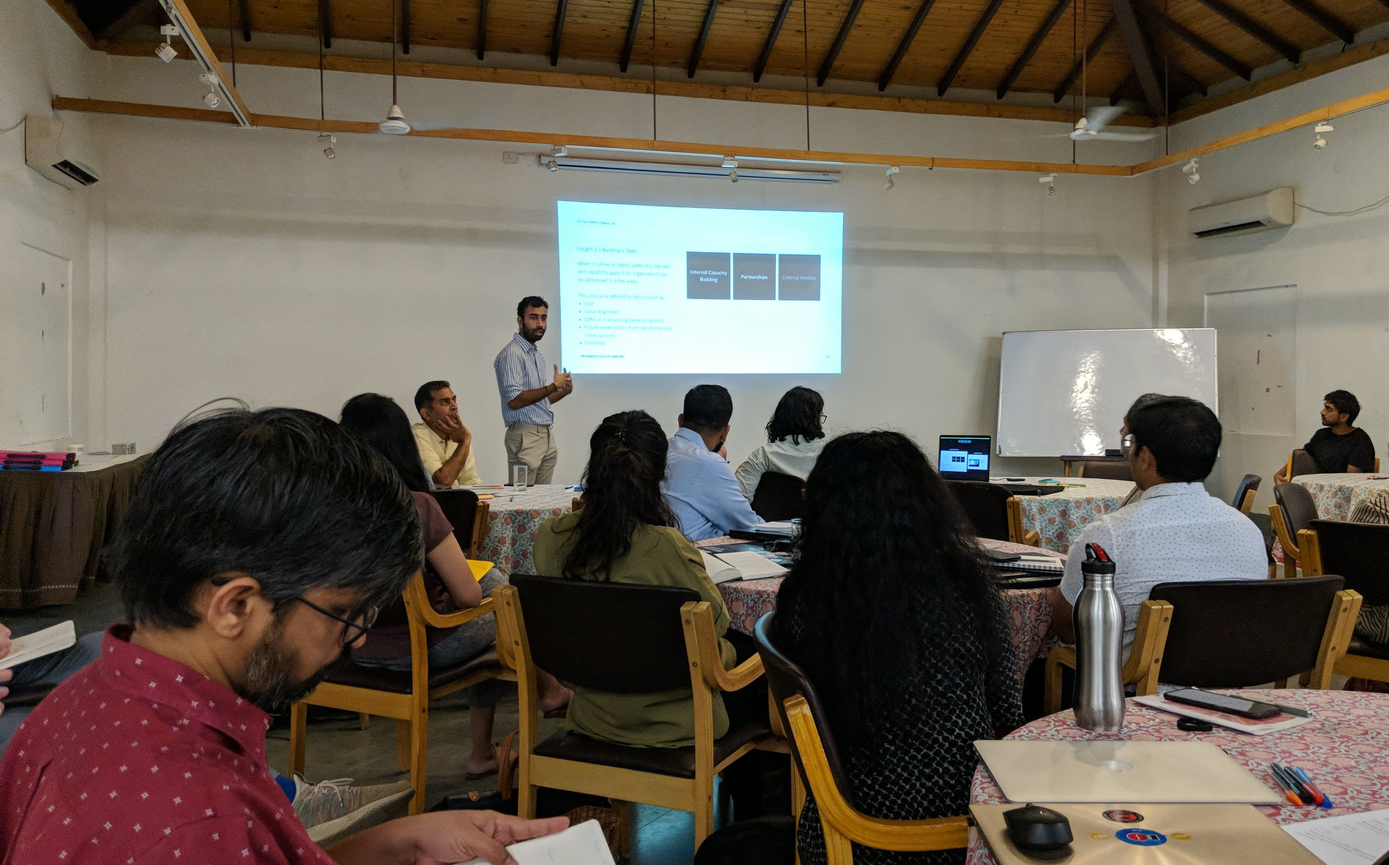
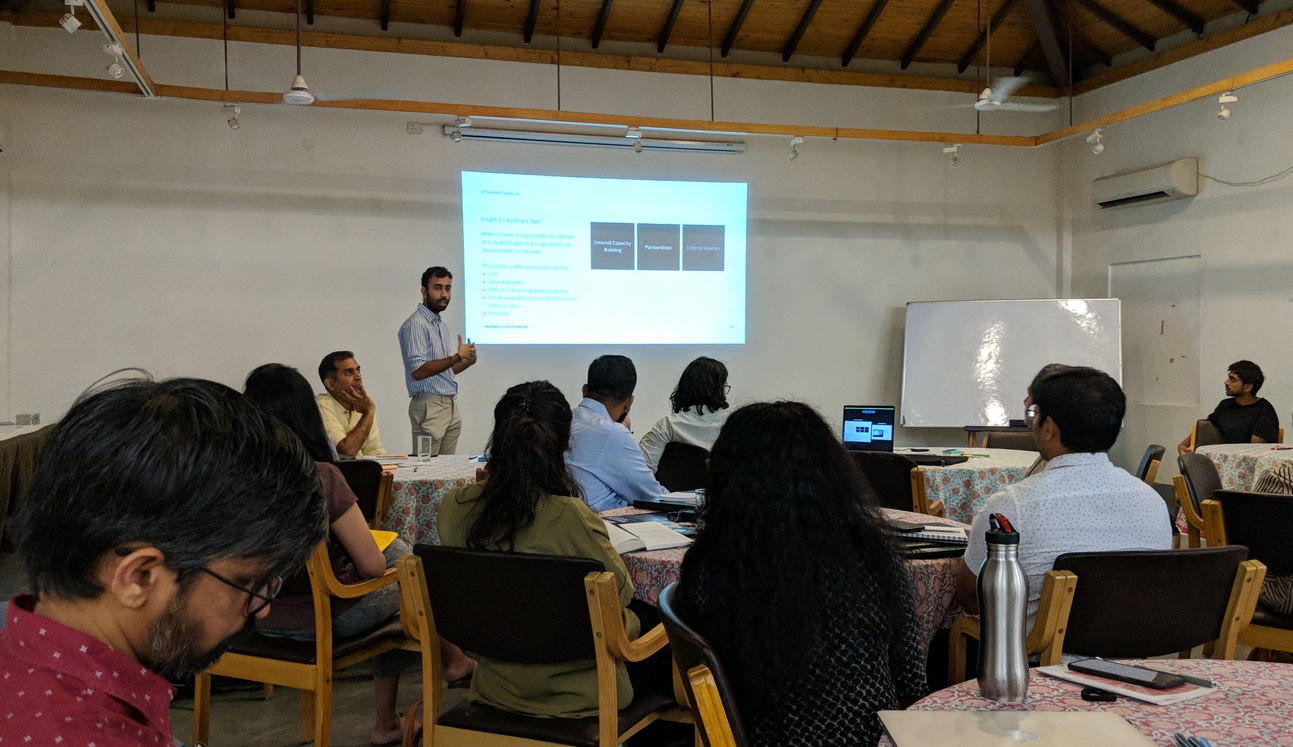
post change

diff --git a/posts/uncdf-finlab-toolkit/index.html b/posts/uncdf-finlab-toolkit/index.html
@@ -45,13 +45,13 @@
     
       <div class="post-desc">
         <h4>Overview</h4>
-        <p>UNCDF Malaysia ran 3 bootcamps to help 18 startups tailor their products to the B40 (Bottom 40% tax bracket in Malaysia) segment of the market. The bootcamps was designed and facilitated by Quicksand, with the intention of creating a repeatable version of the bootcamp to be subsequently run by the UNCDF team. The toolkit for the bootcamp was designed and developed in the form of an easily update-able Google Sheet powered website.</p>
+        <p>UNCDF Malaysia ran 3 bootcamps to help 18 startups tailor their products to the B40 (Bottom 40% tax bracket in Malaysia) segment of the market. The bootcamps was designed and facilitated by Quicksand, with the intention of creating a repeatable version of the bootcamp to be subsequently run by the UNCDF team.</p>
       </div>
     
     
       <div class="post-desc">
         <h4>Role</h4>
-        <p>Facilitator and Web Developer</p>
+        <p>Facilitator and Developer</p>
       </div>
     
     
@@ -73,21 +73,28 @@
     </div>
 </div>
 <div class="post-main">
-  <p><img src="../../img/uncdf-finlab-toolkit-2.jpg" alt=""></p>
-<p><img src="../../img/uncdf-finlab-toolkit-3.jpg" alt=""></p>
+  <p><img src="../../img/uncdf-finlab-toolkit-13.jpg" alt=""></p>
+<h3 id="challenge" tabindex="-1">Challenge <a class="direct-link" href="#challenge" aria-hidden="true"></a></h3>
 <p>The UNCDF Financial Innovation Lab runs challenges to find and support solutions that help to promote inclusive and connected digital economies. As part of the Financial Innovation Lab, the United Nations Capital Development Fund (UNCDF) issues challenges to innovators in global markets across Asia, Africa, and the Pacific. The challenges reflect obstacles to inclusion in each market, that digital technologies present an opportunity to address. The challenges aim to stimulate the growth of new businesses and ideas to drive the development of inclusive digital economies.</p>
 <p>The Financial Innovation Lab is a community of practice energised by its mission to achieve digital financial inclusion for the elimination of poverty worldwide. An initiative of the UN Capital Development Fund (UNCDF), the Lab aims to increase the accessibility of digital financial services and products for low- and middle-income people in Africa, Asia, and the Pacific by sharing knowledge and providing resources to develop impactful solutions.</p>
+<h3 id="bootcamp" tabindex="-1">Bootcamp <a class="direct-link" href="#bootcamp" aria-hidden="true"></a></h3>
+<p>18 fintech start-ups were selected to work with UNCDF to develop and refine innovative new solutions. They attended the UNCDF led Bootcamps to learn and apply the design thinking process, working with mentors and partners from Bank Negara and MDEC amongst other companies. Quicksand was brought in as facilitators for the first cohort, to conduct the bootcamp, and help the startups refine their offering to help serve the B40 population better. Read more about the bootcamp on <a href="https://www.uncdf.org/article/4472/making-malaysian-fintech-fairer">UNCDF's website</a> ↗.</p>
+<p>Across five days participating teams learnt about human centred design; a design methodology that aims to make systems usable and useful by focusing on the users, their needs and requirements, and by applying human factors, usability knowledge, and techniques1. For many of the start-ups this was their first experience of human centred design, and they expressed surprise at how quickly their assumptions were overturned. An initial exercise asked the teams to arrange themselves by how much they were already engaging with the B40 population.</p>
+<p><img src="../../img/uncdf-finlab-toolkit-14.jpg" alt=""></p>
+<p>The start-ups then learnt and applied a series of tools which helped them to define the problem or opportunity they were addressing. These included the problem tree and 5 whys, which are designed to help define the causes and effects of different problems.</p>
+<iframe width="100%" height="450" src="https://www.youtube-nocookie.com/embed/kHeMdB15M2w" title="YouTube video player" frameborder="0" allow="accelerometer; autoplay; clipboard-write; encrypted-media; gyroscope; picture-in-picture" allowfullscreen></iframe>
+<p>One participant has worked in insurance for low-to-middle income people for decades but says that this exercise challenged his assumptions about their financial needs and wants. He spoke to the owner of a shop he has been visiting for decades; “Despite the fact I’ve known Mr. Yong for 20 years I never had the opportunity to understand his business, problems, dreams and aspirations. Talking to Mr. Yong gave me a new level of respect for small business owners.”</p>
 <p><img src="../../img/uncdf-finlab-toolkit-4.jpg" alt=""><br>
 <em>Practice pitching</em></p>
-<p><img src="../../img/uncdf-finlab-toolkit-8.jpg" alt=""><br>
-<em>Synthesising primary research conducted during the bootcamp</em></p>
-<p>18 fintech start-ups were selected to work with UNCDF to develop and refine innovative new solutions. They attended the UNCDF led Bootcamps to learn and apply the design thinking process, working with mentors and partners from Bank Negara and MDEC amongst other companies. Quicksand was brought in as facilitators for the first cohort, to conduct the bootcamp, and help the startups refine their offering to help serve the B40 population better. Documentation of the workshop can be found on <a href="https://www.uncdf.org/article/4472/making-malaysian-fintech-fairer">UNCDF's website</a> ↗.</p>
-<p>Over the 3 bootcamps, the participants were introduced to the process of Human Centered Design, and used various tools to use design thinking to refine their offering. After the conclusion of the bootcamp, Quicksand was tasked to put together all the tools and exercises from the bootcamp into an easy to use resource. After initially putting together a toolkit using openly available and easily collaborative technologies, we explored other formats of delivering the same information. After a few small prototypes, we eventually settled on the idea of creating a micro-site.</p>
-<p><img src="../../img/uncdf-finlab-toolkit-9.png#imageborder" alt=""><br>
+<p><img src="../../img/uncdf-finlab-toolkit-3.jpg" alt=""><br>
+<em>Prepping finalists for pitch day</em></p>
+<h3 id="toolkit" tabindex="-1">Toolkit <a class="direct-link" href="#toolkit" aria-hidden="true"></a></h3>
+<p>Over the 3 bootcamps, the participants were introduced to the process of Human Centred Design, and used various tools to use design thinking to refine their offering. After the conclusion of the bootcamp, Quicksand was tasked to put together all the tools and exercises from the bootcamp into an easy to use resource. After initially putting together a toolkit using openly available and easily collaborative technologies, we explored other formats of delivering the same information. After a few small prototypes, we eventually settled on the idea of creating a micro-site.</p>
+<p><img src="../../img/uncdf-finlab-toolkit-9.png" alt=""><br>
 <em>Home page of toolkit website</em></p>
-<p><img src="../../img/uncdf-finlab-toolkit-11.png#imageborder" alt=""><br>
+<p><img src="../../img/uncdf-finlab-toolkit-11.png" alt=""><br>
 <em>Breaking down each section of the bootcamp into easy to follow tools and templates</em></p>
-<p><img src="../../img/uncdf-finlab-toolkit-10.png#imageborder" alt=""><br>
+<p><img src="../../img/uncdf-finlab-toolkit-10.png" alt=""><br>
 <em>Tools are designed to be easy to understand and used without facilitation</em></p>
 <p>This micro-site was powered by a spreadsheet on Google Sheets, and was hence still collaborative and easy to update. The website created is easy to use and presents information in various blocks, as would be required by the bootcamp participants and workshop facilitators. The tools and facilitation slides can be downloaded as required, with additional reference links provided where needed.</p>
 <p><img src="../../img/uncdf-finlab-toolkit-12.png" alt=""><br>

diff --git a/posts/upshift-social-innovation-curriculum/index.html b/posts/upshift-social-innovation-curriculum/index.html
@@ -73,27 +73,27 @@
     </div>
 </div>
 <div class="post-main">
-  <p><img src="../../img/unicef-upshift-16.jpg" alt=""><br>
-<img src="../../img/unicef-upshift-17.jpg" alt=""><br>
-<em>Workshop to train mentors and trainers</em></p>
+  <p><img src="../../img/unicef-upshift-16.jpg" alt=""></p>
+<h3 id="background" tabindex="-1">Background <a class="direct-link" href="#background" aria-hidden="true"></a></h3>
 <p>UPSHIFT is a youth social innovation and social entrepreneurship programme, designed to build skills and opportunities for young people who are disadvantaged, due to (for example) poverty, gender, disability or ethnicity. The programme empowers young people with the skills and resources they need to identify problems in their own communities and design solutions for them.</p>
-<p><img src="../../img/unicef-upshift-3.jpg" alt=""><br>
-<em>Refining the curriculum with the UNICEF Tajikistan</em></p>
+<h3 id="upshift-workshop" tabindex="-1">UPSHIFT Workshop <a class="direct-link" href="#upshift-workshop" aria-hidden="true"></a></h3>
 <p>The UPSHIFT programme was started by UNICEF Kosovo, and it was very successful. UNICEF in Tajikistan too wanted to start their own UPSHIFT programme, and Quicksand was called in to help design the programme and facilitate the bootcamps. In the two weeks that the Quicksand team was in Dushanbe, we helped refine the human centered design methodology and design a bootcamp agenda which could subsequently be used by the UNICEF team to conduct further workshops.</p>
+<p><img src="../../img/unicef-upshift-17.jpg" alt=""><br>
+<em>Workshop to train mentors and trainers</em></p>
 <p>Quicksand conducted a week-long Training of Trainers bootcamp with selected mentors from around Tajikistan. These mentors would then go on to facilitate UPSHIFT programmes in their communities.</p>
 <p><img src="../../img/unicef-upshift-6.jpg" alt=""><br>
 <em>Mentors prototyping new facilitation strategies</em></p>
-<div class="two-grid">
+<h3 id="toolkit" tabindex="-1">Toolkit <a class="direct-link" href="#toolkit" aria-hidden="true"></a></h3>
+<p>A comprehensive toolkit was created, which was used by the UNICEF team and the mentors to train more mentors and use the HCD (Human Centered Design) process to help guide the adolescents on their social entrepreneurship journey. The freshly minted UPSHIFT trainers then put the toolkit and their facilitation skills to the test with an UPSHIFT cohort in Dushanbe. Feedback from the trainers was then used to optimise the toolkit material.</p>
+<p>The facilitation guide and materials for the UPSHIFT Bootcamp are now available for download from <a href="https://www.unicef.org/innovation/UPSHIFTcurriculum">UNICEF's website</a> ↗.</p>
+<p><img src="../../img/unicef-upshift-3.jpg" alt=""><br>
+<em>Refining the curriculum with the UNICEF Tajikistan</em></p>
 <p><img src="../../img/unicef-upshift-1.jpg" alt=""><br>
+<img src="../../img/unicef-upshift-13.jpg" alt=""><br>
 <em>Getting comfortable with prototyping tools</em></p>
-<p><img src="../../img/unicef-upshift-13.jpg" alt=""></p>
-</div>
-<p>The freshly minted UPSHIFT trainers then put the toolkit and their facilitation skills to the test with an UPSHIFT cohort in Dushanbe. Feedback from the trainers was then used to optimise the toolkit material.</p>
 <p><img src="../../img/unicef-upshift-9.jpg" alt=""><br>
 <img src="../../img/unicef-upshift-8.jpg" alt=""><br>
 <em>Mentors putting their skills to the test with the initial UPSHIFT cohort</em></p>
-<p>A comprehensive toolkit was created, which was used by the UNICEF team and the mentors to train more mentors and use the HCD (Human Centered Design) process to help guide the adolescents on their social entrepreneurship journey.</p>
-<p>The facilitation guide and materials for the UPSHIFT Bootcamp are now available for download from <a href="https://www.unicef.org/innovation/UPSHIFTcurriculum">UNICEF's website</a> ↗.</p>
 <p><img src="../../img/unicef-upshift-4.jpg" alt=""><br>
 <em>Hello from Dushanbe!</em></p>
 

diff --git a/page-list/2/index.html b/page-list/2/index.html
@@ -61,16 +61,16 @@
     <td>Tagged “2022”</td>
   </tr>
   <tr>
-    <td><a href="/tags/writing/"><code>/tags/writing/</code></a></td>
-    <td>Tagged “writing”</td>
-  </tr>
-  <tr>
     <td><a href="/tags/work/"><code>/tags/work/</code></a></td>
     <td>Tagged “work”</td>
   </tr>
   <tr>
     <td><a href="/tags/design-thinking/"><code>/tags/design-thinking/</code></a></td>
     <td>Tagged “design thinking”</td>
+  </tr>
+  <tr>
+    <td><a href="/tags/writing/"><code>/tags/writing/</code></a></td>
+    <td>Tagged “writing”</td>
   </tr>
   <tr>
     <td><a href="/tags/experiential-design/"><code>/tags/experiential-design/</code></a></td>
@@ -85,16 +85,16 @@
     <td>Tagged “selected”</td>
   </tr>
   <tr>
-    <td><a href="/tags/recent/"><code>/tags/recent/</code></a></td>
-    <td>Tagged “recent”</td>
+    <td><a href="/tags/experiential/"><code>/tags/experiential/</code></a></td>
+    <td>Tagged “experiential”</td>
   </tr>
   <tr>
     <td><a href="/tags/physical-computing/"><code>/tags/physical-computing/</code></a></td>
     <td>Tagged “physical computing”</td>
   </tr>
   <tr>
-    <td><a href="/tags/experiential/"><code>/tags/experiential/</code></a></td>
-    <td>Tagged “experiential”</td>
+    <td><a href="/tags/recent/"><code>/tags/recent/</code></a></td>
+    <td>Tagged “recent”</td>
   </tr>
   <tr>
     <td><a href="/tags/generative-art/"><code>/tags/generative-art/</code></a></td>
@@ -105,24 +105,24 @@
     <td>Tagged “speculative design”</td>
   </tr>
   <tr>
-    <td><a href="/tags/machine-learning/"><code>/tags/machine-learning/</code></a></td>
-    <td>Tagged “machine learning”</td>
-  </tr>
-  <tr>
     <td><a href="/tags/data/"><code>/tags/data/</code></a></td>
     <td>Tagged “data”</td>
   </tr>
   <tr>
-    <td><a href="/tags/play/"><code>/tags/play/</code></a></td>
-    <td>Tagged “play”</td>
+    <td><a href="/tags/machine-learning/"><code>/tags/machine-learning/</code></a></td>
+    <td>Tagged “machine learning”</td>
   </tr>
   <tr>
     <td><a href="/tags/mfadt/"><code>/tags/mfadt/</code></a></td>
     <td>Tagged “mfadt”</td>
   </tr>
   <tr>
-    <td><a href="/tags/digital-heritage/"><code>/tags/digital-heritage/</code></a></td>
-    <td>Tagged “digital heritage”</td>
+    <td><a href="/tags/play/"><code>/tags/play/</code></a></td>
+    <td>Tagged “play”</td>
+  </tr>
+  <tr>
+    <td><a href="/tags/games/"><code>/tags/games/</code></a></td>
+    <td>Tagged “games”</td>
   </tr>
   </tbody>
 </table>

diff --git a/tags/index.html b/tags/index.html
@@ -46,16 +46,16 @@
   <div>
   
     
-    <a href="/tags/writing/" class="tags">writing</a>
+    <a href="/tags/work/" class="tags">work</a>
+  
+    
+    <a href="/tags/design-thinking/" class="tags">design thinking</a>
   
     
     <a href="/tags/2020/" class="tags">2020</a>
   
     
-    <a href="/tags/work/" class="tags">work</a>
-  
-    
-    <a href="/tags/design-thinking/" class="tags">design thinking</a>
+    <a href="/tags/writing/" class="tags">writing</a>
   
     
     <a href="/tags/experiential-design/" class="tags">experiential design</a>
@@ -70,52 +70,52 @@
     <a href="/tags/2018/" class="tags">2018</a>
   
     
-    <a href="/tags/recent/" class="tags">recent</a>
+    <a href="/tags/experiential/" class="tags">experiential</a>
   
     
     <a href="/tags/physical-computing/" class="tags">physical computing</a>
   
     
-    <a href="/tags/2022/" class="tags">2022</a>
-  
-    
-    <a href="/tags/2021/" class="tags">2021</a>
-  
-    
-    <a href="/tags/experiential/" class="tags">experiential</a>
-  
-    
     <a href="/tags/2016/" class="tags">2016</a>
   
     
-    <a href="/tags/2019/" class="tags">2019</a>
+    <a href="/tags/recent/" class="tags">recent</a>
+  
+    
+    <a href="/tags/2022/" class="tags">2022</a>
   
     
     <a href="/tags/generative-art/" class="tags">generative art</a>
   
     
-    <a href="/tags/speculative-design/" class="tags">speculative design</a>
+    <a href="/tags/2019/" class="tags">2019</a>
   
     
-    <a href="/tags/machine-learning/" class="tags">machine learning</a>
+    <a href="/tags/2021/" class="tags">2021</a>
   
     
     <a href="/tags/2017/" class="tags">2017</a>
   
     
+    <a href="/tags/speculative-design/" class="tags">speculative design</a>
+  
+    
     <a href="/tags/data/" class="tags">data</a>
   
     
-    <a href="/tags/play/" class="tags">play</a>
+    <a href="/tags/machine-learning/" class="tags">machine learning</a>
   
     
     <a href="/tags/mfadt/" class="tags">mfadt</a>
   
     
-    <a href="/tags/digital-heritage/" class="tags">digital heritage</a>
+    <a href="/tags/play/" class="tags">play</a>
   
     
     <a href="/tags/games/" class="tags">games</a>
+  
+    
+    <a href="/tags/digital-heritage/" class="tags">digital heritage</a>
   
 
 

diff --git a/posts/love-in-the-time-of-digital/index.html b/posts/love-in-the-time-of-digital/index.html
@@ -100,6 +100,8 @@
 <p><img src="../../img/lttd-3.jpg" alt="Workshopping ideas based off the proposed framework"><br>
 <em>Workshopping ideas based off the proposed framework</em></p>
 <p>In conclusion, digital technologies offer great opportunities in the ASRH space and can become a significant enabling factor for organisations in the sector, who, with digital can take their ideas to scale and impact a lot more people than they would with traditional methods. Digital technologies also present a significant capacity challenge for a lot of stakeholders in the sector, who will need to realign their focus to also include technology skills to remain competitive as digital technologies are increasingly embraced. Furthermore, it remains critical that the subject matter expertise and on ground connect that many organisations in the sector already possess is further nurtured and partnered with technology and not in any way replaced by it.</p>
+<p><img src="../../img/lttd-7.jpg" alt=""><br>
+<em>Report Cover</em></p>
 
 </div>
 

diff --git a/page-list/3/index.html b/page-list/3/index.html
@@ -45,8 +45,8 @@
   </thead>
   <tbody>
   <tr>
-    <td><a href="/tags/games/"><code>/tags/games/</code></a></td>
-    <td>Tagged “games”</td>
+    <td><a href="/tags/digital-heritage/"><code>/tags/digital-heritage/</code></a></td>
+    <td>Tagged “digital heritage”</td>
   </tr>
   <tr>
     <td><a href="/posts/media-arts-a11y/"><code>/posts/media-arts-a11y/</code></a></td>
